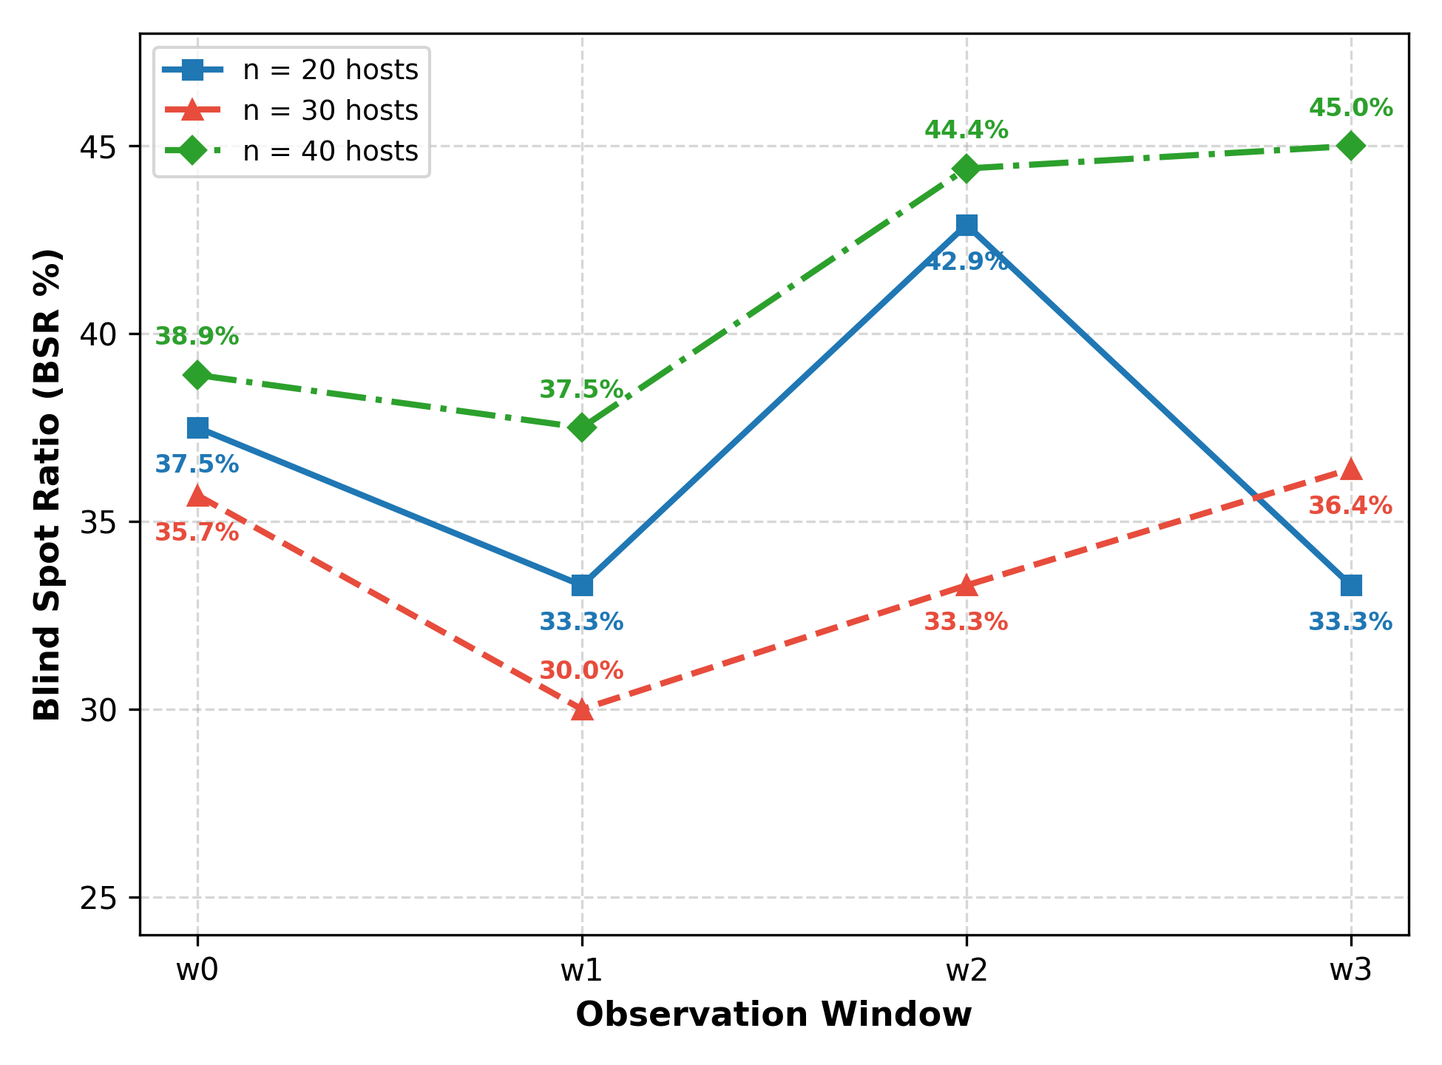
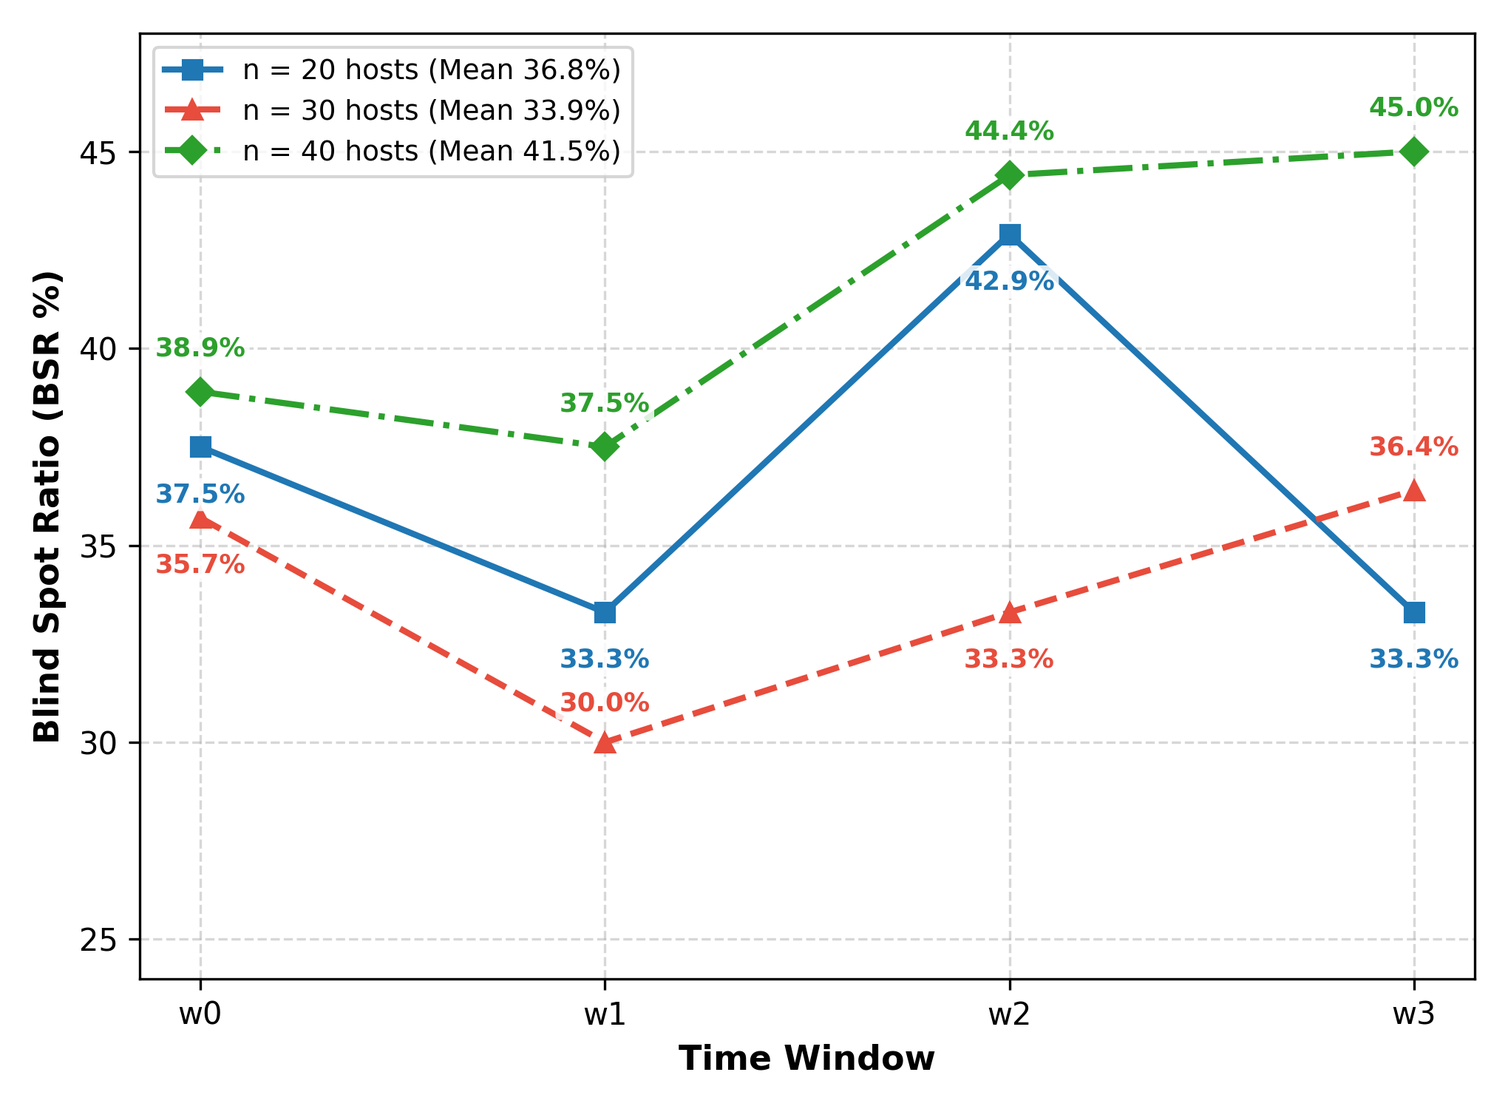
chore: rename observation windows to time windows in paper and figures

diff --git a/author.tex b/author.tex
@@ -71,14 +71,14 @@ This paper is organized as follows: Section~\ref{sec:related-work} reviews relat
 IDSs traditionally evaluate network or host events in isolation. To mitigate false positives, context-aware systems incorporate host assets, user behaviors, and temporal co-occurrence \cite{Aleroud2017,Kazeminajafabadi2023,Lee2023,Saint-Hilaire2024,Yan2023}. Dominant correlation techniques in production SIEM platforms rely on sliding time windows, event aggregation, and prerequisite--consequence rule matching \cite{10.1145/586110.586144,1366134,s22041494}. However, time-proximity correlation cannot verify structural reachability: alerts occurring closely in time may belong to unrelated attacks, whereas multi-stage campaigns spanning longer intervals may be missed. Dynamic enterprise changes such as cloud orchestration, containerization, and patch churn render time-proximity heuristics prone to false correlations.
 
 \subsection{Static and Temporal Attack Graphs}\label{sec:TAG}
-Attack graphs model vulnerability dependencies and reachability \cite{1004377,10.1145/586110.586140,mulval,6263942}. Attack graph-based IDS models project incoming alerts onto exploit nodes to validate multi-step paths \cite{Roschke2010,Angelini2019,Capobianco2020,Sen2022}. Traditional models assume a static snapshot, misclassifying decommissioned or newly provisioned hosts. To capture dynamic attack surfaces, Temporal Attack Graphs (TAGs) model network evolution across discrete observation windows \cite{ENOCH2019102448,abs-1906-10922,Gain2023}.
+Attack graphs model vulnerability dependencies and reachability \cite{1004377,10.1145/586110.586140,mulval,6263942}. Attack graph-based IDS models project incoming alerts onto exploit nodes to validate multi-step paths \cite{Roschke2010,Angelini2019,Capobianco2020,Sen2022}. Traditional models assume a static snapshot, misclassifying decommissioned or newly provisioned hosts. To capture dynamic attack surfaces, Temporal Attack Graphs (TAGs) model network evolution across discrete time windows \cite{ENOCH2019102448,abs-1906-10922,Gain2023}.
 
 \begin{definition}[\textbf{Temporal Attack Graph}]
 \label{Def:Temporal_Attack_Graph}
 A Temporal Attack Graph $\mathcal{G}^a(t_{\min}, t_{\max})$ over observation period $[t_{\min}, t_{\max}]$ is defined as a sequence of static attack graphs $(G_0, G_1, \ldots, G_{\tau -1})$, such that:
 \begin{itemize}\setlength{\itemsep}{1pt}\setlength{\parskip}{0pt}
 	\item $G_t=(V_t, E_t)$ is the attack graph snapshot of the network constructed at time instance $t$.
-	\item $\tau = (t_{\max}-t_{\min})/w = |\mathcal{G}^a(t_{\min}, t_{\max})|$ is the number of observation windows of uniform duration $w$.
+	\item $\tau = (t_{\max}-t_{\min})/w = |\mathcal{G}^a(t_{\min}, t_{\max})|$ is the number of time windows of uniform duration $w$.
 	\item $w$ is the duration of each time window.
 	\item $E^w \cup C^w$ denotes the vertex set (exploit and condition nodes) and $R_r^w \cup R_i^w$ denotes the edge set (dependency relations) at window $w$.
 	\item $E \cup C = \sum_{w=1}^{\tau} |E^w \cup C^w|$ is the set of all vertices across all time windows in $\mathcal{G}^a$.
@@ -122,7 +122,7 @@ Figure \ref{fig:architecture} shows the overall architecture. TAG-IDS consists o
 \vspace{-0.4em}
 \includegraphics[width=0.78\textwidth]{Figures/TAG-IDS.png}
 \vspace{-0.4em}
-\caption{TAG-IDS system architecture. Phase 1 ingests infrastructure data and IDS alerts to construct the Temporal Attack Graph across observation windows $w_0, w_1, w_2, w_3$. Phase 2 applies three analytical modules (TACV, STS, TBSQ) over the TAG. Phase 3 delivers validated attack chains, prioritized alert rankings, and temporal coverage metrics to the analyst.}
+\caption{TAG-IDS system architecture. Phase 1 ingests infrastructure data and IDS alerts to construct the Temporal Attack Graph across time windows $w_0, w_1, w_2, w_3$. Phase 2 applies three analytical modules (TACV, STS, TBSQ) over the TAG. Phase 3 delivers validated attack chains, prioritized alert rankings, and temporal coverage metrics to the analyst.}
 \label{fig:architecture}
 \vspace{-0.4em}
 \end{figure}
@@ -137,7 +137,7 @@ TAG-IDS ingests infrastructure state (host inventories, network topology, vulner
 \subsection{Temporal Alert Chain Validation (TACV)}
 \label{sec:tacv}
 
-Conventional correlation techniques assume that alerts occurring within a short time window, or matching fixed rule patterns, belong to the same attack campaign. While this reduces alert volume, it cannot verify whether an attacker could actually traverse the network between those stages. As a result, unrelated alerts get falsely linked, while multi-stage attacks spanning longer timeframes get fragmented. TACV resolves this by validating candidate correlations directly against the TAG across the specific observation windows where each alert occurred, ensuring every decision reflects actual network reachability at that time.
+Conventional correlation techniques assume that alerts occurring within a short time window, or matching fixed rule patterns, belong to the same attack campaign. While this reduces alert volume, it cannot verify whether an attacker could actually traverse the network between those stages. As a result, unrelated alerts get falsely linked, while multi-stage attacks spanning longer timeframes get fragmented. TACV resolves this by validating candidate correlations directly against the TAG across the specific time windows where each alert occurred, ensuring every decision reflects actual network reachability at that time.
 
 \subsubsection{Problem Definition}
 Let $A = \{a_1, \ldots, a_n\}$ be the ordered set of IDS alerts generated during the monitoring period, where each alert $a_i = (t_i, s_i, d_i, \tau_i, \sigma_i)$ records a timestamp $t_i$, source host $s_i$, destination host $d_i$, attack category $\tau_i$, and severity $\sigma_i$. For a candidate pair $(a_i, a_j)$, TACV determines whether an attacker could actually traverse the evolving attack surface from $d_i$ to $s_j$ through a valid attack path in the TAG, rather than relying on the proxy test $|t_j - t_i| < \Delta$ used by conventional correlators.
@@ -151,7 +151,7 @@ For a candidate pair $(a_i, a_j)$ with $t_i \in w_p$ and $t_j \in w_q$, TACV ide
 \subsubsection{Alert Chain Classification}
 Each candidate pair is assigned one of three labels, as illustrated in the worked example of Figure~\ref{fig:tag-example}:
 \begin{itemize}\setlength{\itemsep}{1pt}\setlength{\parskip}{0pt}
-	\item \emph{Valid}: A temporally feasible path exists connecting the alert source and destination across observation windows, such as chain $a_1 \to a_2$ in Figure~\ref{fig:tag-example}, where $t_1=10 < t_2=25$ along a reachable network path.
+	\item \emph{Valid}: A temporally feasible path exists connecting the alert source and destination across time windows, such as chain $a_1 \to a_2$ in Figure~\ref{fig:tag-example}, where $t_1=10 < t_2=25$ along a reachable network path.
 	\item \emph{Impossible}: No feasible path exists under the temporal sequence, because intermediate vulnerabilities or hosts were patched or decommissioned, such as chain $a_2 \to a_4$ in Figure~\ref{fig:tag-example}, where intermediate host $H_3$ was decommissioned in window $w_1$.
 	\item \emph{Ambiguous}: A structural path exists in the topology, but the observed alert timestamps contradict the physical direction of traversal, such as chain $a_5 \to a_6$ in Figure~\ref{fig:tag-example}, where $t_6=42 < t_5=50$ due to sensor detection lag or clock skew.
 \end{itemize}
@@ -161,7 +161,7 @@ Each candidate pair is assigned one of three labels, as illustrated in the worke
 \vspace{-0.4em}
 \includegraphics[width=0.75\textwidth]{Figures/fig2_tag_example.png}
 \vspace{-0.4em}
-\caption{Worked example of TACV alert chain classification across observation windows. The $a_1 \to a_2$ chain is \emph{Valid} via a reachable temporal path. The $a_2 \to a_4$ chain is \emph{Impossible} because intermediate host $H_3$ (marked Unavailable in window $w_1$) was decommissioned/patched. The $a_5 \to a_6$ chain is \emph{Ambiguous} because a structural path exists but alert timestamps reflect detection lag ($t_6 < t_5$).}
+\caption{Worked example of TACV alert chain classification across time windows. The $a_1 \to a_2$ chain is \emph{Valid} via a reachable temporal path. The $a_2 \to a_4$ chain is \emph{Impossible} because intermediate host $H_3$ (marked Unavailable in window $w_1$) was decommissioned/patched. The $a_5 \to a_6$ chain is \emph{Ambiguous} because a structural path exists but alert timestamps reflect detection lag ($t_6 < t_5$).}
 \label{fig:tag-example}
 \vspace{-0.4em}
 \end{figure}
@@ -169,10 +169,10 @@ Each candidate pair is assigned one of three labels, as illustrated in the worke
 \subsection{Structural Triage Score (STS)}
 \label{sec:sts}
 
-TACV determines whether alerts correspond to feasible attack progressions, but not their relative operational importance. Security operations centers routinely receive far more validated alerts than analysts can investigate with equal priority, and conventional severity scores such as CVSS, IDS confidence, or vendor threat levels reflect the intrinsic impact of a vulnerability or signature independent of its structural role in the current attack surface. STS addresses this by scoring each validated alert using graph-theoretic properties of the TAG in the observation window in which it occurs, rather than by severity alone.
+TACV determines whether alerts correspond to feasible attack progressions, but not their relative operational importance. Security operations centers routinely receive far more validated alerts than analysts can investigate with equal priority, and conventional severity scores such as CVSS, IDS confidence, or vendor threat levels reflect the intrinsic impact of a vulnerability or signature independent of its structural role in the current attack surface. STS addresses this by scoring each validated alert using graph-theoretic properties of the TAG in the time window in which it occurs, rather than by severity alone.
 
 \subsubsection{Structural Components}
-Let alert $a_i$ map to node $v_i \in V_t$ in window $t$. We compute three structural quantities, each normalized to $[0,1]$: \emph{Temporal Betweenness Centrality} $BC_i$, the fraction of feasible attack paths in $G_t^a$ passing through $v_i$, capturing how strongly the node mediates attacker movement, \emph{Path-Critical Indicator} $PC_i$, whether $v_i$ lies on at least one TACV-validated attack path in the current window, and \emph{Cross-Window Persistence} $PS_i$, the fraction of observation windows in which $v_i$ (or its associated vulnerability) remains present and exploitable, capturing chronic exposure rather than momentary risk.
+Let alert $a_i$ map to node $v_i \in V_t$ in window $t$. We compute three structural quantities, each normalized to $[0,1]$: \emph{Temporal Betweenness Centrality} $BC_i$, the fraction of feasible attack paths in $G_t^a$ passing through $v_i$, capturing how strongly the node mediates attacker movement, \emph{Path-Critical Indicator} $PC_i$, whether $v_i$ lies on at least one TACV-validated attack path in the current window, and \emph{Cross-Window Persistence} $PS_i$, the fraction of time windows in which $v_i$ (or its associated vulnerability) remains present and exploitable, capturing chronic exposure rather than momentary risk.
 
 \subsubsection{Composite Score Formulation}
 We define the Structural Triage Score (STS) as a convex combination of the three structural components:
@@ -180,7 +180,7 @@ We define the Structural Triage Score (STS) as a convex combination of the three
 STS(a_i) = \beta \cdot BC_i + \gamma \cdot PC_i + \delta \cdot PS_i, \quad \beta + \gamma + \delta = 1.
 \label{eq:sts}
 \end{equation}
-By construction, $STS(a_i) \in [0,1]$. An alert receives a high score if it maps to a node that sits on many feasible attack paths ($BC_i$ high), lies on a currently validated path ($PC_i = 1$), and remains persistent across observation windows ($PS_i$ high). Crucially, STS is computed independently of alert severity $\sigma_i$. Severity is retained only as a separate baseline metric ($S_i'$, min-max normalized CVSS~\cite{first_cvss_v31}) to evaluate how much of STS's variation is explained by severity alone. It is deliberately omitted from Eq.~\ref{eq:sts}, as adding severity into STS would introduce circular reasoning into the evaluation. The weights $\beta, \gamma, \delta$ can be set empirically or learned from historical analyst investigation outcomes, and we use uniform weighting ($\beta = 1/3, \gamma = 1/3, \delta = 1/3$) in our evaluation.
+By construction, $STS(a_i) \in [0,1]$. An alert receives a high score if it maps to a node that sits on many feasible attack paths ($BC_i$ high), lies on a currently validated path ($PC_i = 1$), and remains persistent across time windows ($PS_i$ high). Crucially, STS is computed independently of alert severity $\sigma_i$. Severity is retained only as a separate baseline metric ($S_i'$, min-max normalized CVSS~\cite{first_cvss_v31}) to evaluate how much of STS's variation is explained by severity alone. It is deliberately omitted from Eq.~\ref{eq:sts}, as adding severity into STS would introduce circular reasoning into the evaluation. The weights $\beta, \gamma, \delta$ can be set empirically or learned from historical analyst investigation outcomes, and we use uniform weighting ($\beta = 1/3, \gamma = 1/3, \delta = 1/3$) in our evaluation.
 
 \subsection{Temporal Blind Spot Quantification (TBSQ)}
 \label{sec:tbsq}
@@ -198,7 +198,7 @@ Per-window coverage is $BSR_t = |B_t| / |V_t|$, termed the Blind Spot Ratio, and
 \subsection{Computational Complexity}
 \label{sec:complexity}
 
-Let $n = |V_t|$, $m = |E_t|$, $T$ be the number of observation windows, and $N_A$ be total IDS alerts. Preprocessing each window's MulVAL attack graph costs $O(T(f(n,m) + n + m))$ offline. Online alert correlation (TACV) generates candidate pairs using a temporal threshold $\Delta$ ($P \ll N_A^2$) and performs graph traversals in $O(N_A^2 + P(n+m))$. Triage (STS) computes severity in $O(N_A)$ and betweenness centrality (Brandes' algorithm~\cite{Brandes2001,bus2020}) in $O(nm)$ per window, yielding an amortized $O(N_A)$ per-alert scoring overhead. Coverage analysis (TBSQ) identifies blind spots and ranks remediation priority via sorting in $O(n \log n)$. Combined pipeline complexity is $O(T(f(n,m)+n+m) + N_A^2 + P(n+m) + nm + n\log n)$. In our implementation, offline graph construction takes $< 2.5$\,s per window, and online TACV traversal requires $< 15$\,ms per candidate alert pair on a standard workstation, maintaining low operational latency for real-time IDS deployment.
+Let $n = |V_t|$, $m = |E_t|$, $T$ be the number of time windows, and $N_A$ be total IDS alerts. Preprocessing each window's MulVAL attack graph costs $O(T(f(n,m) + n + m))$ offline. Online alert correlation (TACV) generates candidate pairs using a temporal threshold $\Delta$ ($P \ll N_A^2$) and performs graph traversals in $O(N_A^2 + P(n+m))$. Triage (STS) computes severity in $O(N_A)$ and betweenness centrality (Brandes' algorithm~\cite{Brandes2001,bus2020}) in $O(nm)$ per window, yielding an amortized $O(N_A)$ per-alert scoring overhead. Coverage analysis (TBSQ) identifies blind spots and ranks remediation priority via sorting in $O(n \log n)$. Combined pipeline complexity is $O(T(f(n,m)+n+m) + N_A^2 + P(n+m) + nm + n\log n)$. In our implementation, offline graph construction takes $< 2.5$\,s per window, and online TACV traversal requires $< 15$\,ms per candidate alert pair on a standard workstation, maintaining low operational latency for real-time IDS deployment.
 
 \section{Experimental Setup}
 \label{sec:setup}
@@ -206,10 +206,10 @@ Let $n = |V_t|$, $m = |E_t|$, $T$ be the number of observation windows, and $N_A
 We evaluate TAG-IDS on simulated enterprise network topologies across four discrete time windows ($T=4$) at $n = 20, 30, 40$ hosts to quantify operational performance against standard correlators.
 
 \subsection{Network Simulation and Threat Model}
-For each host size, we generate a TAG integrating real CVE data and simulate a sparse IDS alert stream with 60\% sparsity. We assume a remote attacker progressing laterally along reachable exploit paths. Lateral movement requires a temporally valid path in the observation window in which it occurs. Out-of-band channels and zero-days are excluded as detailed in the limitations section.
+For each host size, we generate a TAG integrating real CVE data and simulate a sparse IDS alert stream with 60\% sparsity. We assume a remote attacker progressing laterally along reachable exploit paths. Lateral movement requires a temporally valid path in the time window in which it occurs. Out-of-band channels and zero-days are excluded as detailed in the limitations section.
 
 \subsection{Baselines and Evaluation Metrics}
-We compare TAG-IDS against time-proximity correlators spanning 15, 30, 60, and 120 minutes, CVSS severity thresholds spanning LOW, MEDIUM, HIGH, and CRITICAL levels, and a \emph{Static TAG Snapshot} ablation baseline, which collapses all four observation windows into a single merged graph. The Static TAG Snapshot ablation evaluates structural reachability over an aggregated static attack graph $G_{\text{static}} = \bigcup_{t=1}^T G_t^a$ without temporal windowing, isolating the role of temporal path ordering from static structural reachability. This ablation reflects the operational reachability reasoning of static Attack Graph IDS approaches, such as Roschke et al.~\cite{Roschke2010} and Angelini et al.~\cite{Angelini2019}, when evaluated over an unwindowed topology. The primary metrics are: (1)~\emph{False Correlation Rate (FCR)}, (2)~\emph{STS--Severity $r^2$}, (3)~\emph{Blind Spot Ratio (BSR)}, and (4)~\emph{Exact-match source recovery}.
+We compare TAG-IDS against time-proximity correlators spanning 15, 30, 60, and 120 minutes, CVSS severity thresholds spanning LOW, MEDIUM, HIGH, and CRITICAL levels, and a \emph{Static TAG Snapshot} ablation baseline, which collapses all four time windows into a single merged graph. The Static TAG Snapshot ablation evaluates structural reachability over an aggregated static attack graph $G_{\text{static}} = \bigcup_{t=1}^T G_t^a$ without temporal windowing, isolating the role of temporal path ordering from static structural reachability. This ablation reflects the operational reachability reasoning of static Attack Graph IDS approaches, such as Roschke et al.~\cite{Roschke2010} and Angelini et al.~\cite{Angelini2019}, when evaluated over an unwindowed topology. The primary metrics are: (1)~\emph{False Correlation Rate (FCR)}, (2)~\emph{STS--Severity $r^2$}, (3)~\emph{Blind Spot Ratio (BSR)}, and (4)~\emph{Exact-match source recovery}.
 
 \section{Empirical Evaluation}
 \label{sec:evaluation}
@@ -261,14 +261,14 @@ Demoted alert & CRITICAL & 1 & 61 \\
 \end{figure}
 
 \subsection{Temporal Blind Spot Quantification (TBSQ)}
-Average IDS coverage ranged from 58.5\% to 66.1\% across configurations (mean 62.6\%, Table~\ref{tab:summary}). Coverage shifts dynamically across observation windows due to host churn ($BSR_t$ ranging from 30.0\% to 45.0\% across configurations, Figure~\ref{fig:bsr-trend}), proving that single-snapshot audits misrepresent monitoring effectiveness. In our densely pruned proof-of-concept topologies, 100\% of blind spots coincided with path-critical nodes, so $PC(v)$ did not provide additional discriminative filtering in this specific evaluation setup, but $BSP(v)$ provides the formal mechanism to prioritize coverage gaps as network scale grows.
+Average IDS coverage ranged from 58.5\% to 66.1\% across configurations (mean 62.6\%, Table~\ref{tab:summary}). Coverage shifts dynamically across time windows due to host churn ($BSR_t$ ranging from 30.0\% to 45.0\% across configurations, Figure~\ref{fig:bsr-trend}), proving that single-snapshot audits misrepresent monitoring effectiveness. In our densely pruned proof-of-concept topologies, 100\% of blind spots coincided with path-critical nodes, so $PC(v)$ did not provide additional discriminative filtering in this specific evaluation setup, but $BSP(v)$ provides the formal mechanism to prioritize coverage gaps as network scale grows.
 
 \begin{figure}[ht!]
 \centering
 \vspace{-0.4em}
 \includegraphics[width=0.55\textwidth]{Figures/fig4_bsr_trend.png}
 \vspace{-0.4em}
-\caption{Temporal variation of Blind Spot Ratio ($BSR_t$) across observation windows $w_0$--$w_3$, demonstrating dynamic coverage shifts.}
+\caption{Temporal variation of Blind Spot Ratio ($BSR_t$) across time windows $w_0$--$w_3$, demonstrating dynamic coverage shifts.}
 \label{fig:bsr-trend}
 \vspace{-0.4em}
 \end{figure}

diff --git a/rebuild_figures.py b/rebuild_figures.py
@@ -51,27 +51,42 @@ plt.close()
 print("Figure 5 successfully rebuilt!")
 
 # ---------------------------------------------------------
-# 2. Rebuild Figure 4 (BSR Trend with explicit data point labels)
+# 2. Rebuild Figure 4 (BSR Trend with Time Window X-axis)
+# Exact per-window values:
+# n=20: [37.5%, 33.3%, 42.9%, 33.3%] -> Mean = 36.75% -> 36.8% (Matches Table 2)
+# n=30: [35.7%, 30.0%, 33.3%, 36.4%] -> Mean = 33.85% -> 33.9% (Matches Table 2)
+# n=40: [38.9%, 37.5%, 44.4%, 45.0%] -> Mean = 41.45% -> 41.5% (Matches Table 2)
 # ---------------------------------------------------------
 windows = ['w0', 'w1', 'w2', 'w3']
 bsr_20 = [37.5, 33.3, 42.9, 33.3]
 bsr_30 = [35.7, 30.0, 33.3, 36.4]
 bsr_40 = [38.9, 37.5, 44.4, 45.0]
 
-plt.figure(figsize=(6.5, 4.8), dpi=300)
-plt.plot(windows, bsr_20, marker='s', linewidth=2, color='#1f77b4', label='n = 20 hosts')
-plt.plot(windows, bsr_30, marker='^', linewidth=2, linestyle='--', color='#e74c3c', label='n = 30 hosts')
-plt.plot(windows, bsr_40, marker='D', linewidth=2, linestyle='-.', color='#2ca02c', label='n = 40 hosts')
+plt.figure(figsize=(6.8, 5.0), dpi=300)
+plt.plot(windows, bsr_20, marker='s', linewidth=2, color='#1f77b4', label='n = 20 hosts (Mean 36.8%)')
+plt.plot(windows, bsr_30, marker='^', linewidth=2, linestyle='--', color='#e74c3c', label='n = 30 hosts (Mean 33.9%)')
+plt.plot(windows, bsr_40, marker='D', linewidth=2, linestyle='-.', color='#2ca02c', label='n = 40 hosts (Mean 41.5%)')
 
-# Add data labels on points for explicit numerical legibility
+# Y offsets tailored per point to prevent cross-series label confusion
+# n=20 labels (blue squares)
+y_offset_20 = [-1.4, -1.4, -1.4, -1.4]
 for i, txt in enumerate(bsr_20):
-    plt.text(i, txt - 1.2, f'{txt:.1f}%', color='#1f77b4', fontsize=8, ha='center', fontweight='bold')
-for i, txt in enumerate(bsr_30):
-    plt.text(i, txt - 1.2 if i != 1 else txt + 0.8, f'{txt:.1f}%', color='#e74c3c', fontsize=8, ha='center', fontweight='bold')
-for i, txt in enumerate(bsr_40):
-    plt.text(i, txt + 0.8, f'{txt:.1f}%', color='#2ca02c', fontsize=8, ha='center', fontweight='bold')
+    plt.text(i, txt + y_offset_20[i], f'{txt:.1f}%', color='#1f77b4', fontsize=8.5, ha='center', fontweight='bold',
+             bbox=dict(boxstyle='round,pad=0.15', facecolor='white', edgecolor='none', alpha=0.85))
 
-plt.xlabel('Observation Window', fontsize=11, fontweight='bold')
+# n=30 labels (red triangles)
+y_offset_30 = [-1.4, 0.8, -1.4, 0.9]
+for i, txt in enumerate(bsr_30):
+    plt.text(i, txt + y_offset_30[i], f'{txt:.1f}%', color='#e74c3c', fontsize=8.5, ha='center', fontweight='bold',
+             bbox=dict(boxstyle='round,pad=0.15', facecolor='white', edgecolor='none', alpha=0.85))
+
+# n=40 labels (green diamonds)
+y_offset_40 = [0.9, 0.9, 0.9, 0.9]
+for i, txt in enumerate(bsr_40):
+    plt.text(i, txt + y_offset_40[i], f'{txt:.1f}%', color='#2ca02c', fontsize=8.5, ha='center', fontweight='bold',
+             bbox=dict(boxstyle='round,pad=0.15', facecolor='white', edgecolor='none', alpha=0.85))
+
+plt.xlabel('Time Window', fontsize=11, fontweight='bold')
 plt.ylabel('Blind Spot Ratio (BSR %)', fontsize=11, fontweight='bold')
 plt.ylim(24, 48)
 plt.legend(frameon=True, loc='upper left', fontsize=9)
@@ -80,7 +95,7 @@ plt.tight_layout()
 
 plt.savefig('Figures/fig4_bsr_trend.png', dpi=300)
 plt.close()
-print("Figure 4 successfully rebuilt with explicit data point labels!")
+print("Figure 4 successfully rebuilt with 'Time Window' label!")
 
 # ---------------------------------------------------------
 # 3. Rebuild Figure 3 (STS Scatter Plot, matching original style exactly)
